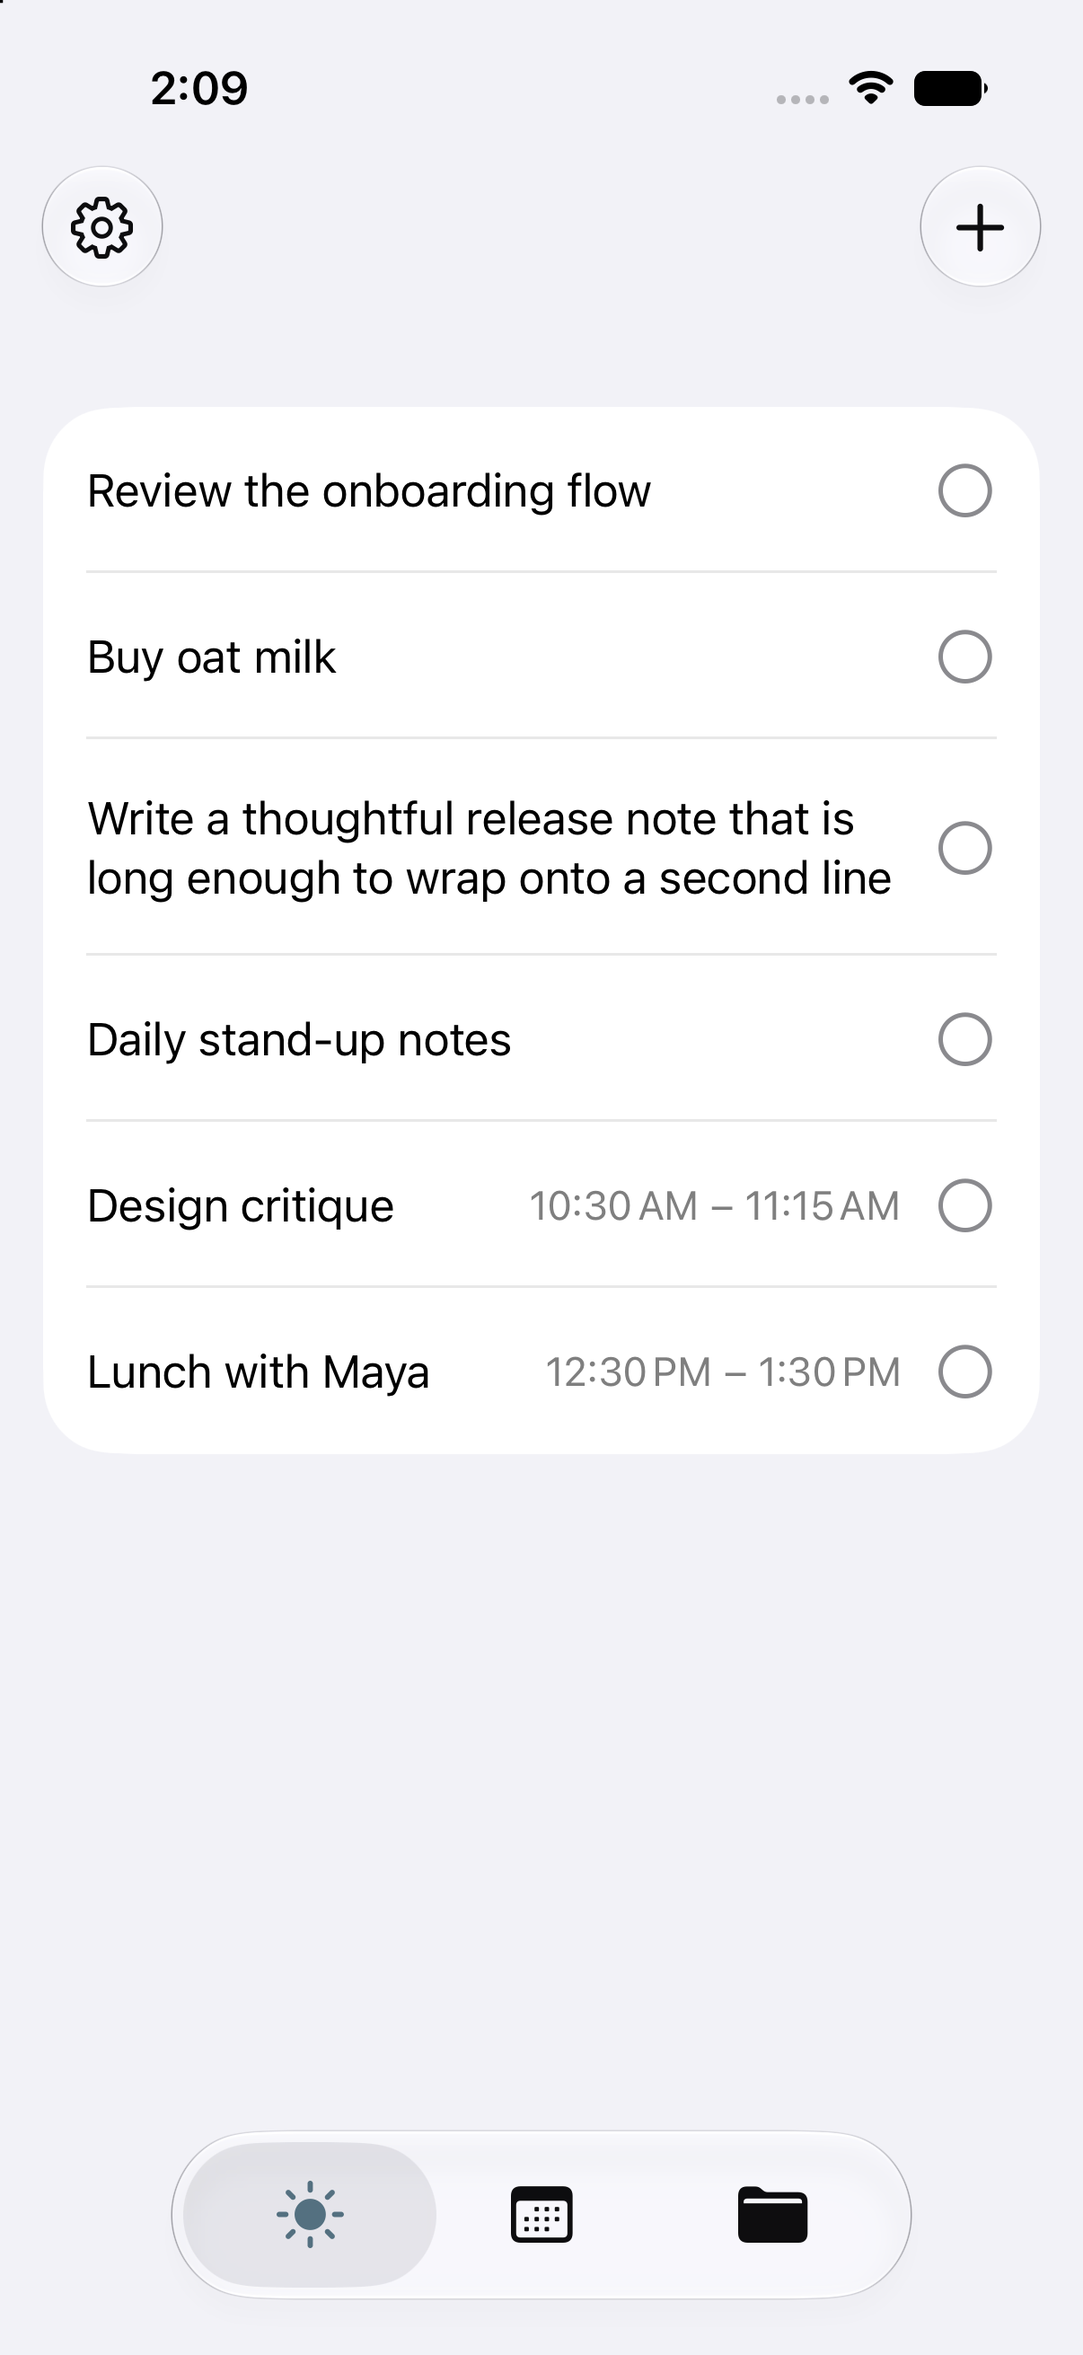
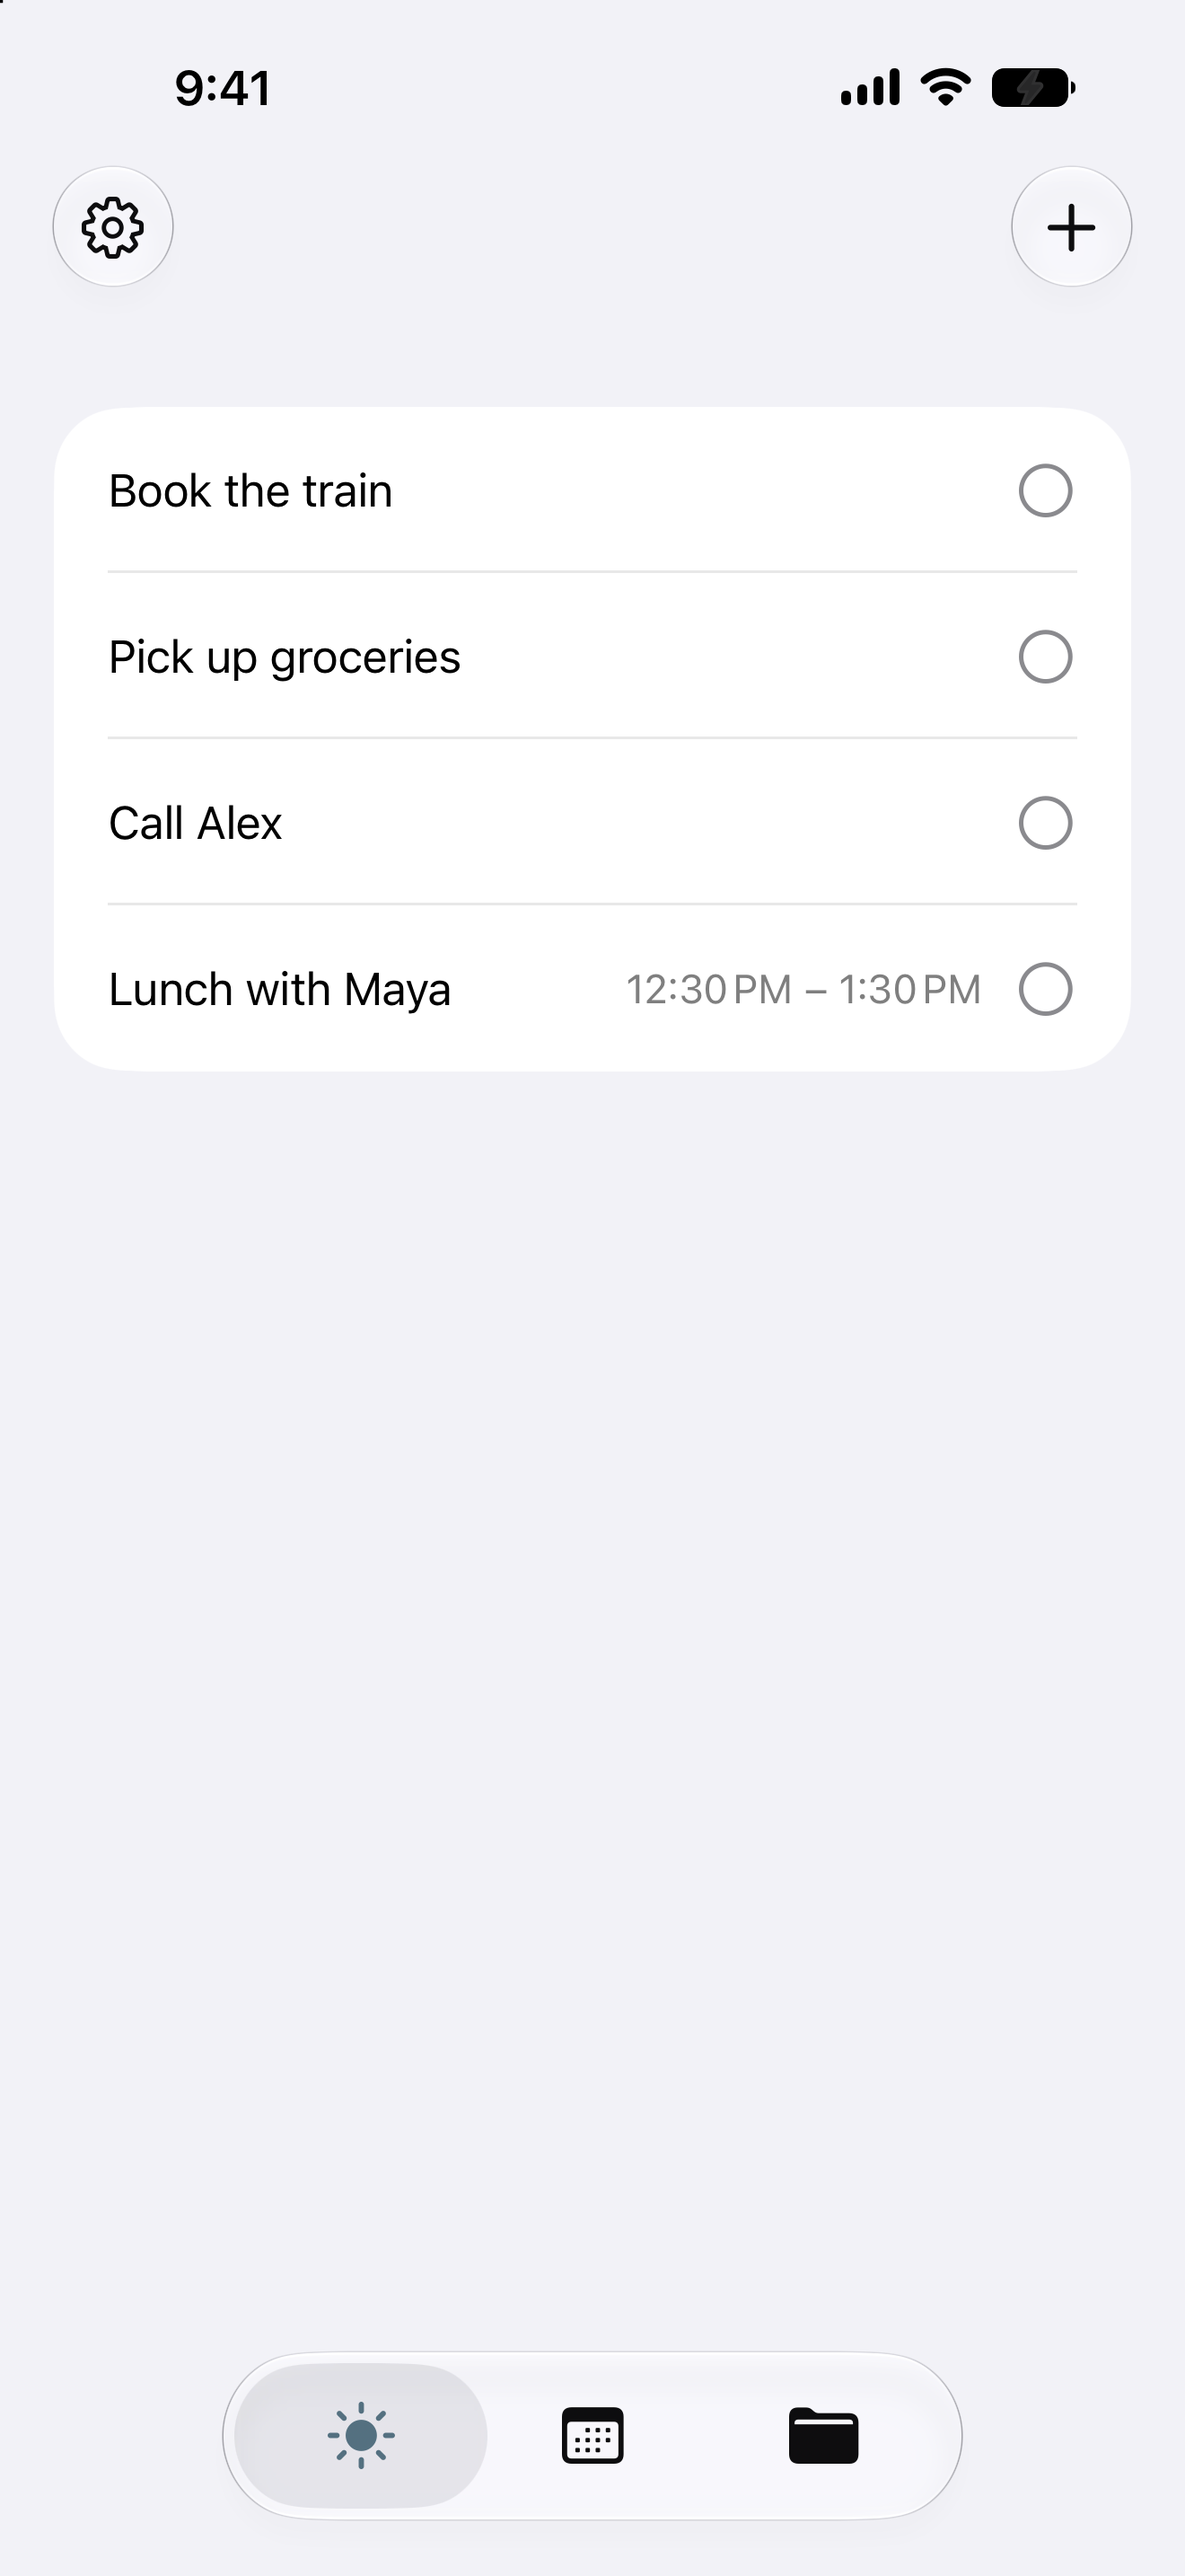
Match Nagare website appearance to Oto

diff --git a/docs/index.html b/docs/index.html
@@ -213,12 +213,12 @@
     @media (prefers-color-scheme: dark) {
       :root {
         --accent: #86a3b3;
-        --background: #181a1b;
-        --surface: #242627;
-        --text: #f3f4f4;
-        --secondary: #afb3b6;
+        --background: #080808;
+        --surface: #1c1c1c;
+        --text: #f5f5f5;
+        --secondary: #b0b0b0;
         --border: rgba(255, 255, 255, 0.13);
-        --shadow: 0 30px 80px rgba(0, 0, 0, 0.42);
+        --shadow: 0 0 64px rgba(255, 255, 255, 0.045), 0 28px 70px rgba(0, 0, 0, 0.4);
       }
     }
   </style>
@@ -227,12 +227,15 @@
   <main>
     <section class="hero" aria-labelledby="page-title">
       <figure class="app-shot">
-        <img
-          src="assets/nagare-mobile.png"
-          width="1206"
-          height="2622"
-          alt="Nagare showing a list of today's tasks on iPhone"
-        >
+        <picture>
+          <source media="(prefers-color-scheme: dark)" srcset="assets/nagare-mobile-dark.png">
+          <img
+            src="assets/nagare-mobile.png"
+            width="1320"
+            height="2868"
+            alt="Nagare showing a list of today's tasks on iPhone"
+          >
+        </picture>
       </figure>
 
       <div class="intro">
